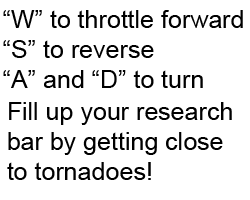
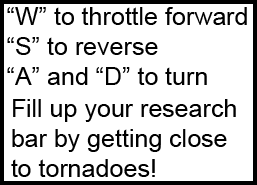
Added instruction text

diff --git a/brackeys_jam_2024/src/application.cpp b/brackeys_jam_2024/src/application.cpp
@@ -625,6 +625,10 @@ public:
 	GameScene(int level) : level{ level } {
 		PTGN_INFO("Starting level: ", level);
 
+		if (level == 0 && !game.texture.Has(Hash("tutorial_text"))) {
+			game.texture.Load(Hash("tutorial_text"), "resources/ui/instructions.png");
+		}
+
 		game.texture.Load(Hash("grass"), "resources/entity/grass.png");
 		game.texture.Load(Hash("dirt"), "resources/entity/dirt.png");
 		game.texture.Load(Hash("corn"), "resources/entity/corn.png");
@@ -637,6 +641,10 @@ public:
 	}
 
 	~GameScene() {
+		if (level == 0) {
+			game.texture.Unload(Hash("tutorial_text"));
+		}
+
 		game.texture.Unload(Hash("grass"));
 		game.texture.Unload(Hash("dirt"));
 		game.texture.Unload(Hash("corn"));
@@ -1439,6 +1447,12 @@ public:
 		PTGN_ASSERT(player.Has<Transform>());
 		player.Get<Progress>().Draw(player.Get<Transform>().position);
 		DrawSpeedometer();
+		if (level == 0) {
+			const Texture tutorial_text{ game.texture.Get(Hash("tutorial_text")) };
+			const V2_float text_size{ tutorial_text.GetSize() };
+			const V2_float text_pos{ static_cast<float>(resolution.x), 0.0f };
+			game.renderer.DrawTexture(tutorial_text, text_pos, text_size, {}, {}, Origin::TopRight);
+		}
 
 		game.renderer.Flush();
 		game.camera.SetCameraPrimary();
